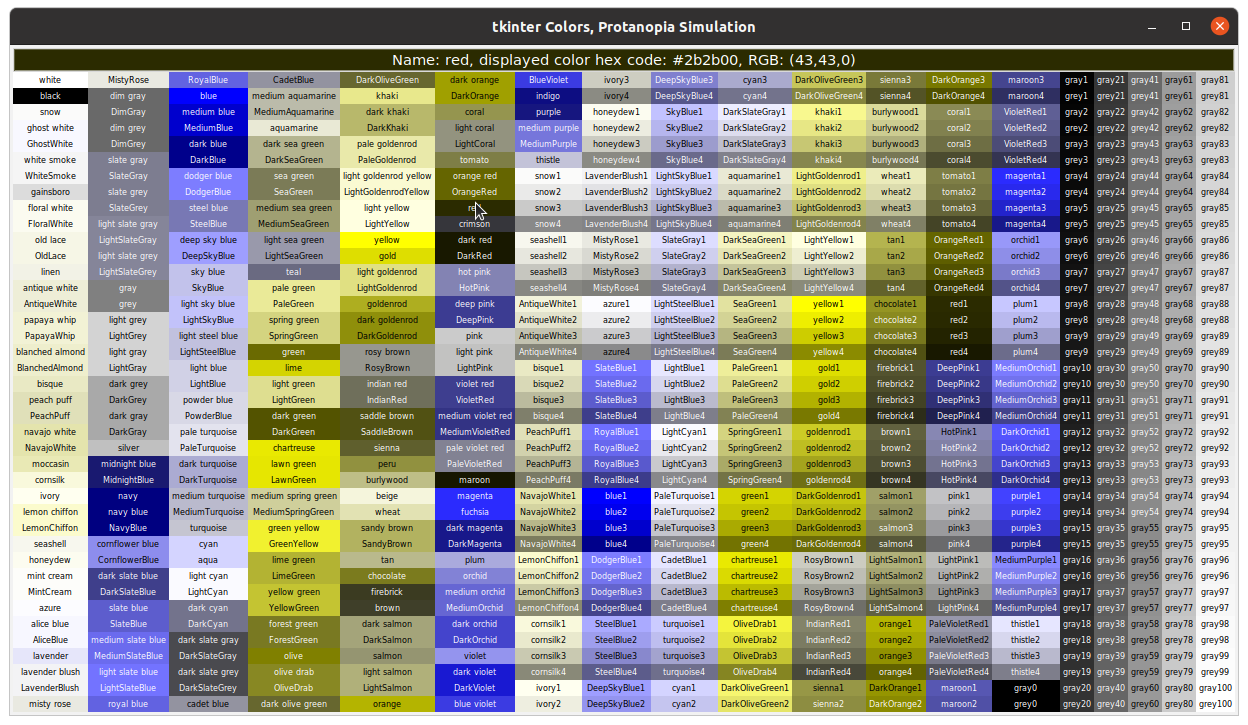
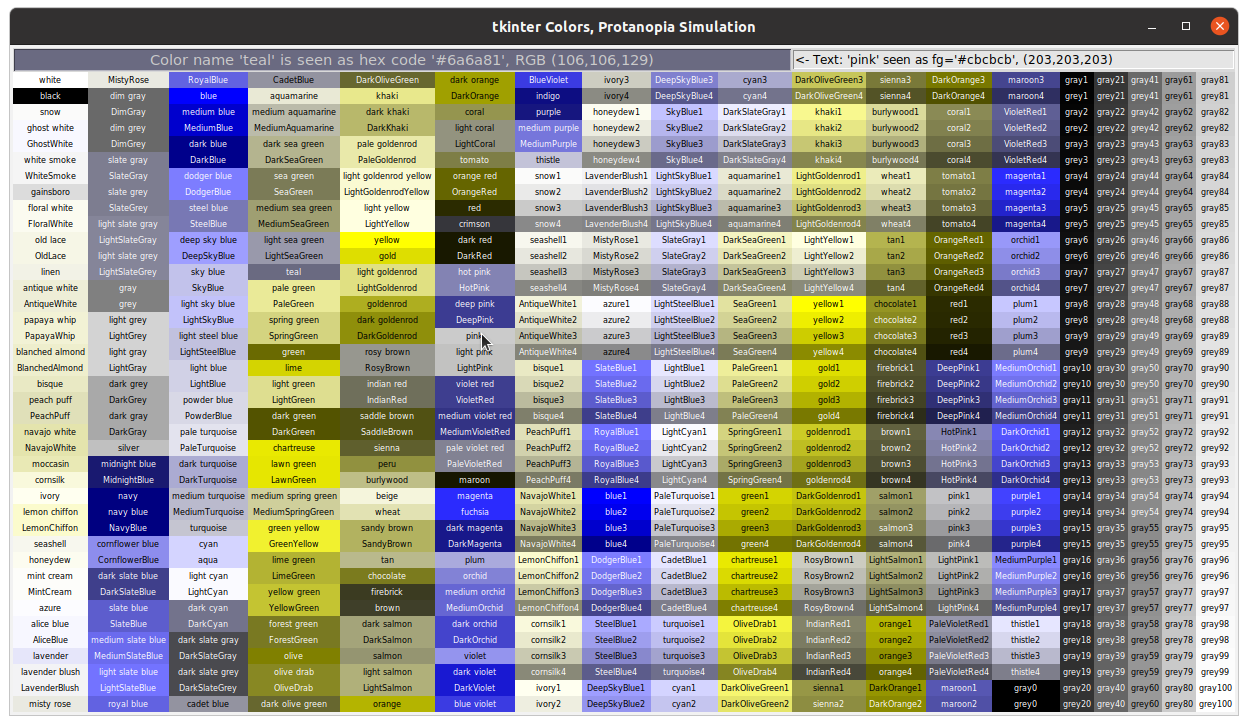
improve color info readability; update README.md images

Changed region(s): [[0.0, 0.0607, 1.0, 0.2124], [0.375, 0.4552, 0.4062, 0.4855], [0.375, 0.2731, 0.4062, 0.3034]]

diff --git a/tk-color-helper.py b/tk-color-helper.py
@@ -92,8 +92,8 @@ X11_RGB_NAMES = ('white', 'black', 'snow', 'ghost white', 'GhostWhite', 'white s
                  'dark turquoise', 'DarkTurquoise', 'medium turquoise', 'MediumTurquoise',
                  'turquoise', 'cyan', 'aqua', 'light cyan', 'LightCyan', 'dark cyan', 'DarkCyan',
                  'dark slate gray', 'DarkSlateGray', 'dark slate grey', 'DarkSlateGrey',
-                 'cadet blue', 'CadetBlue', 'medium aquamarine', 'MediumAquamarine',
-                 'aquamarine', 'dark sea green', 'DarkSeaGreen', 'sea green', 'SeaGreen',
+                 'cadet blue', 'CadetBlue', 'aquamarine', 'medium aquamarine',
+                 'MediumAquamarine', 'dark sea green', 'DarkSeaGreen', 'sea green', 'SeaGreen',
                  'medium sea green', 'MediumSeaGreen', 'light sea green', 'LightSeaGreen',
                  'teal', 'pale green', 'PaleGreen', 'spring green', 'SpringGreen',
                  'green', 'lime', 'light green', 'LightGreen', 'dark green', 'DarkGreen',
@@ -241,7 +241,7 @@ class ColorChart(tk.Frame):
         self.colorinfo.set('Click on a color to get its hex code and RGB.')
         self.bg_info = tk.Entry(self, textvariable=self.colorinfo)
         self.new_fg = tk.StringVar()
-        self.new_fg.set('Right click changes text color.')
+        self.new_fg.set('<- Right-click changes text color')
         self.fg_info = tk.Entry(self, textvariable=self.new_fg)
 
         # Width of the info Entry() in row0, determined by number of columns.
@@ -467,12 +467,12 @@ class ColorChart(tk.Frame):
 
     def show_info(self, color: str, hexcode: str, rgb: str, contrast: str):
         """
-        Binds to each label its selected color name, hex code and RBG
-        strings of the (simulated) color, and the default foreground.
+        Binds to each color label its selected color name, hex code and
+        RGB strings of the (simulated) color, and the default foreground.
         Background is color corresponding to the (simulated) hexcode.
         Called from draw_table() in a lambda function.
 
-        :param color: The color name; does not change
+        :param color: The color name
         :param hexcode: The tkinter compatible hex code of either the
                         named color or its displayed simulated color.
         :param rgb: (R,G,B) of either the named color or its displayed
@@ -486,19 +486,21 @@ class ColorChart(tk.Frame):
             self.colorinfo.set(
                 f"Color name '{color}' is seen as hex code '{hexcode}', RGB {rgb}")
             self.bg_info.configure(bg=hexcode, fg=contrast)
-            self.new_fg.set("<- right-click changes text color")
+            self.new_fg.set('<- Right-click changes text color')
         else:
             self.colorinfo.set(
                 f"'{color}', hex code '{hexcode}', RGB {rgb}")
             self.bg_info.configure(bg=color, fg=contrast)
-            self.new_fg.set("<- right-click changes text color")
+            self.new_fg.set('<- Right-click changes text color')
 
     def new_foreground(self, color: str, hexcode: str, rgb: str) -> None:
         """
-        Called from right-click on a color; changes foreground of
-        self.bg_info and provide new fg color info.
+        Binds to each color label a different foreground for self.bg_info,
+        and provide new fg color info.
+        Foreground is color corresponding to the (simulated) hexcode.
+        Called from draw_table() in a lambda function.
 
-        :param color: The color name; does not change
+        :param color: The color name
         :param hexcode: The tkinter compatible hex code of either the
                         named color or its displayed simulated color.
         :param rgb: (R,G,B) of either the named color or its displayed
@@ -506,9 +508,9 @@ class ColorChart(tk.Frame):
         """
         self.bg_info.configure(fg=hexcode)
         if args.d or args.p or args.t or args.gray:
-            self.new_fg.set(f"<-Text: '{color}' seen as fg='{hexcode}', {rgb}")
+            self.new_fg.set(f"<- Text: '{color}' seen as fg='{hexcode}', {rgb}")
         else:
-            self.new_fg.set(f"<-Text: '{color}', fg='{hexcode}', {rgb}")
+            self.new_fg.set(f"<- Text: '{color}', fg='{hexcode}', {rgb}")
 
 
 class RightClickCmds:

diff --git a/README.md b/README.md
@@ -20,6 +20,9 @@ optional arguments:
 Run as `./tk-color-helper.py`
 ![named-colors](images/tkinter_colors.png)
 
+Right click to change foreground color:
+![new_text_color](images/new_text_color.png)
+
 Run as `$ ./tk-color-helper.py --d`
 ![deuteranopeia-simulated-colors](images/deuteranopia_sim.png)
 
@@ -30,4 +33,4 @@ Run as `$ ./tk-color-helper.py --t`
 ![tritanopia-simulated-colors](images/tritanopia_sim.png)
 
 Run as `$ ./tk-color-helper.py --gray`
-![grayscale-tk-colors](images/grayscale.png)
+![grayscale-tk-colors](images/grayscale_sim.png)
